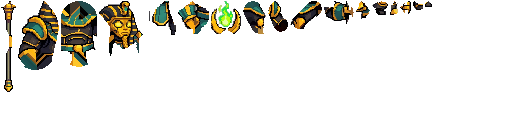
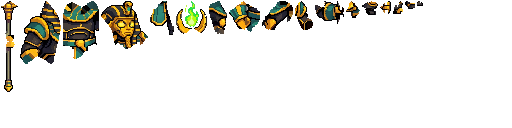
[feat/bone-studio] Tự cắt part: hết viền xám, hết mảng vẽ bù lộ, hết mẩu rời khi xoay
- Vẽ bù phía sau chỉ lan một dải hẹp quanh mép part (dưới part con thì tối đa gấp đôi), không còn mảng tối nhọn sau vai hay khối nâu ở đầu gậy khi part trước xoay.
- Bỏ viền xám pha nền ở mép (điểm pha giữa nền và màu bên trong), cả trên ảnh gốc lẫn lưới gốc: từ 54 còn 3 điểm xám ở mép pharaoh.
- Mẩu nhỏ bị gán nhầm part (sát part khác) được trả về part nó chạm; mảng thật bị che (gậy sau bàn tay) và sợi lửa rời vẫn giữ.
- Dựng lại pharaoh mẫu và file demo runtime.
- Test: test-core 15/15, test-editor 11/11.

Changed region(s): [[0.0, 0.0, 0.8438, 0.5625], [0.0, 0.0, 0.0312, 0.0625]]

diff --git a/bone-studio/src/split/rig.js b/bone-studio/src/split/rig.js
@@ -1,7 +1,7 @@
 // From a native-grid image and a skeleton spec to rig parts: labels, hidden-pixel fill, cropped part images, commands.
 // Skeleton spec (coordinates in SOURCE image pixels, y down):
 //   { joints: { name: [x, y] }, parts: [{ name, from, to, parent? }] }   parts listed bottom → top (draw order)
-import { img } from "./pixels.js?v=20261125c";
+import { img } from "./pixels.js?v=20261125d";
 
 // ---- masks -------------------------------------------------------------------------------------
 export function alphaMask(im) {
@@ -250,6 +250,27 @@ export function segment(native, spec, scale = 1, phase = [0, 0]) {
     }
     labels.set(next);
   }
+  // islands: small stray pieces of a part that sit against another part go to the part they touch most
+  for (let k = 0; k < n; k++) {
+    const m = new Uint8Array(w * h);
+    for (let i = 0; i < w * h; i++) m[i] = labels[i] === k ? 1 : 0;
+    const { comps } = components(m, w, h);
+    if (comps.length < 2) continue;
+    comps.sort((a, b) => b.length - a.length);
+    const total = comps.reduce((t, c) => t + c.length, 0);
+    for (const c of comps.slice(1)) {
+      if (c.length > 40 || c.length > total * 0.12) continue; // a real piece (e.g. a staff split by the hand holding it)
+      const touch = new Map(), inC = new Set(c);
+      for (const i of c) {
+        const x = i % w, y = (i / w) | 0;
+        for (const j of [x > 0 ? i - 1 : -1, x < w - 1 ? i + 1 : -1, y > 0 ? i - w : -1, y < h - 1 ? i + w : -1]) if (j >= 0 && !inC.has(j) && labels[j] >= 0 && labels[j] !== k) touch.set(labels[j], (touch.get(labels[j]) ?? 0) + 1);
+      }
+      let to = -1, best = -1;
+      for (const [l, v] of touch) if (v > best) { best = v; to = l; }
+      if (to < 0) continue; // a detached bit of the same thing (a flame wisp): keep it
+      for (const i of c) labels[i] = to;
+    }
+  }
   return { labels, segs, w, h };
 }
 
@@ -257,9 +278,15 @@ export function segment(native, spec, scale = 1, phase = [0, 0]) {
 // A part is extended under the parts drawn in front of it, inside its own capsule, and the new pixels take the
 // most common colour of already-filled neighbours (stays on the pixel grid, no blur). The setup pose is unchanged
 // because every added pixel sits under a part that is drawn on top.
-export function cutParts(native, seg, spec, { fill = true, grow = 1.15 } = {}) {
+export function cutParts(native, seg, spec, { fill = true, grow = 1.15, band = 3 } = {}) {
   const { labels, segs, w, h } = seg, n = segs.length, d = native.data;
   const out = [];
+  // descendants of each part: a parent may extend under its children inside its capsule; other parts only get a thin band
+  const kids = spec.parts.map((p) => {
+    const set = new Set(), stack = [p.name];
+    while (stack.length) { const c = stack.pop(); spec.parts.forEach((q, j) => { if (q.parent === c && !set.has(j)) { set.add(j); stack.push(q.name); } }); }
+    return set;
+  });
   for (let k = 0; k < n; k++) {
     const own = new Uint8Array(w * h);
     for (let i = 0; i < own.length; i++) own[i] = labels[i] === k ? 1 : 0;
@@ -269,10 +296,11 @@ export function cutParts(native, seg, spec, { fill = true, grow = 1.15 } = {}) {
     let added = 0;
     if (fill) {
       const target = new Uint8Array(w * h);
+      const ownDist = distanceTransform(own.map((v) => 1 - v), w, h);
       for (let i = 0; i < w * h; i++) {
         if (own[i] || labels[i] <= k) continue; // only under parts drawn later (on top)
         const p = [i % w, (i / w) | 0];
-        if (segDist(p, segs[k].a, segs[k].b) <= segs[k].r * grow) target[i] = 1;
+        if (kids[k].has(labels[i]) ? segDist(p, segs[k].a, segs[k].b) <= segs[k].r * grow && ownDist[i] <= band * 2 : ownDist[i] <= band) target[i] = 1;
       }
       for (let pass = 0; pass < 200; pass++) {
         const batch = [];

diff --git a/bone-studio/src/split/pixels.js b/bone-studio/src/split/pixels.js
@@ -28,6 +28,19 @@ export function removeBackground(src, { tolerance } = {}) {
       if (j >= 0 && !seen[j] && dist2(d, j * 4, bg) <= tol2) { seen[j] = 1; stack.push(j); }
     }
   }
+  // defringe: edge pixels that are still close to the background (blended halo of an upscaled image) go transparent
+  const fringe2 = Math.max(tol2 * 4, 95 * 95);
+  for (let pass = 0; pass < 2; pass++) {
+    const kill = [];
+    for (let i = 0; i < w * h; i++) {
+      if (out.data[i * 4 + 3] === 0) continue;
+      const x = i % w, y = (i / w) | 0;
+      const edge = (x > 0 && out.data[(i - 1) * 4 + 3] === 0) || (x < w - 1 && out.data[(i + 1) * 4 + 3] === 0) || (y > 0 && out.data[(i - w) * 4 + 3] === 0) || (y < h - 1 && out.data[(i + w) * 4 + 3] === 0);
+      if (edge && dist2(d, i * 4, bg) <= fringe2) kill.push(i);
+    }
+    for (const i of kill) out.data[i * 4 + 3] = 0;
+    removed += kill.length;
+  }
   return { image: out, background: bg, removed };
 }
 
@@ -124,4 +137,34 @@ export function opaqueBounds(src) {
     if (x < x0) x0 = x; if (x > x1) x1 = x; if (y < y0) y0 = y; if (y > y1) y1 = y;
   }
   return x1 < 0 ? null : { x: x0, y: y0, w: x1 - x0 + 1, h: y1 - y0 + 1 };
+}
+
+// edge pixels of an already-cut image that are close to the removed background colour go transparent
+export function defringe(im, bg, maxDist = 95, passes = 2) {
+  if (!bg) return 0;
+  const { width: w, height: h, data: d } = im;
+  let n = 0;
+  for (let pass = 0; pass < passes; pass++) {
+    const kill = [];
+    for (let i = 0; i < w * h; i++) {
+      if (!d[i * 4 + 3]) continue;
+      const x = i % w, y = (i / w) | 0;
+      const edge = x === 0 || y === 0 || x === w - 1 || y === h - 1 || !d[(i - 1) * 4 + 3] || !d[(i + 1) * 4 + 3] || !d[(i - w) * 4 + 3] || !d[(i + w) * 4 + 3];
+      if (!edge) continue;
+      if (dist2(d, i * 4, bg) <= maxDist * maxDist) { kill.push(i); continue; }
+      // a blend of the background and an inner neighbour: p ≈ bg + t (q - bg) with 0 < t < 0.8
+      for (const j of [i - 1, i + 1, i - w, i + w]) {
+        if (j < 0 || j >= w * h || !d[j * 4 + 3]) continue;
+        const q = [d[j * 4] - bg[0], d[j * 4 + 1] - bg[1], d[j * 4 + 2] - bg[2]], p = [d[i * 4] - bg[0], d[i * 4 + 1] - bg[1], d[i * 4 + 2] - bg[2]];
+        const qq = q[0] * q[0] + q[1] * q[1] + q[2] * q[2];
+        if (qq < 60 * 60) continue;
+        const t = (p[0] * q[0] + p[1] * q[1] + p[2] * q[2]) / qq;
+        const res = Math.hypot(p[0] - t * q[0], p[1] - t * q[1], p[2] - t * q[2]);
+        if (t > 0.05 && t < 0.8 && res < 18) { kill.push(i); break; }
+      }
+    }
+    for (const i of kill) d[i * 4 + 3] = 0;
+    n += kill.length;
+  }
+  return n;
 }

diff --git a/bone-studio/src/editor/app.js b/bone-studio/src/editor/app.js
@@ -3,14 +3,14 @@ window.__errors = [];
 window.addEventListener("error", (e) => window.__errors.push(String(e.message || e)));
 window.addEventListener("unhandledrejection", (e) => window.__errors.push(String(e.reason?.message || e.reason)));
 
-const { S, doc, emit, on, h, toast, run, select, selectedBones, keyOverrides, keyAll, setTime, skeleton, poseAtTime } = await import("./state.js?v=20261125c");
-const VP = await import("./viewport.js?v=20261125c");
-const { renderTree, renderProps } = await import("./panels.js?v=20261125c");
-const TL = await import("./timeline.js?v=20261125c");
-const IO = await import("./io.js?v=20261125c");
-const AG = await import("./agent.js?v=20261125c");
-const { importWhole } = await import("./splitui.js?v=20261125c");
-const CL = await import("./cloud.js?v=20261125c");
+const { S, doc, emit, on, h, toast, run, select, selectedBones, keyOverrides, keyAll, setTime, skeleton, poseAtTime } = await import("./state.js?v=20261125d");
+const VP = await import("./viewport.js?v=20261125d");
+const { renderTree, renderProps } = await import("./panels.js?v=20261125d");
+const TL = await import("./timeline.js?v=20261125d");
+const IO = await import("./io.js?v=20261125d");
+const AG = await import("./agent.js?v=20261125d");
+const { importWhole } = await import("./splitui.js?v=20261125d");
+const CL = await import("./cloud.js?v=20261125d");
 
 const $ = (id) => document.getElementById(id);
 const app = $("app"), modal = $("xx-modal");
@@ -122,9 +122,9 @@ async function openDialog() {
 }
 async function openSample(name) {
   const base = name === "pharaoh" ? "samples/pharaoh/project" : "samples/robo";
-  const d = await (await fetch(`${base}/doc.json?v=20261125c`)).json();
+  const d = await (await fetch(`${base}/doc.json?v=20261125d`)).json();
   const images = {};
-  await Promise.all(Object.keys(d.images).map(async (p) => { images[p] = await (await fetch(`${base}/images/${p}.png?v=20261125c`)).blob(); }));
+  await Promise.all(Object.keys(d.images).map(async (p) => { images[p] = await (await fetch(`${base}/images/${p}.png?v=20261125d`)).blob(); }));
   await IO.loadProject(d, images);
   toast(`Đã mở mẫu ${d.name}`);
 }

diff --git a/bone-studio/runtime/xuong-three.js b/bone-studio/runtime/xuong-three.js
@@ -1,12 +1,12 @@
 // three.js adapter for Xưởng Xương skeletons (three r160+, ESM).
 //   import * as THREE from "https://cdn.jsdelivr.net/npm/three@0.160.0/build/three.module.js";
-//   import { loadSkeleton } from "./xuong-player.js";
-//   import { XuongMesh } from "./xuong-three.js";
+//   import { loadSkeleton } from "./xuong-player.js?v=20261125d";
+//   import { XuongMesh } from "./xuong-three.js?v=20261125d";
 //   const m = new XuongMesh(THREE, await loadSkeleton("pharaoh.xuong.json"), { pixelsPerUnit: 100 });
 //   m.play("walk"); scene.add(m); mỗi khung: m.update(dt);
 // Một BufferGeometry cho mỗi (trang atlas, additive hay không); vị trí/uv/màu dựng lại mỗi khung từ drawList.
 // Thứ tự vẽ giữ nguyên trong từng geometry (thứ tự tam giác); giữa các geometry dùng renderOrder theo slot đầu tiên.
-import { buildSkeleton, setupPose, updateWorld, drawList, AnimationState, bounds as listBounds } from "./xuong.js?v=20261125c";
+import { buildSkeleton, setupPose, updateWorld, drawList, AnimationState, bounds as listBounds } from "./xuong.js?v=20261125d";
 
 // XuongMesh là Object3D của THREE được truyền vào: `new XuongMesh(THREE, data, opts)` trả về một lớp con của THREE.Object3D
 // (dựng một lần cho mỗi bản THREE). Lớp này chỉ mang các phương thức bên dưới.

diff --git a/bone-studio/src/editor/io.js b/bone-studio/src/editor/io.js
@@ -1,12 +1,12 @@
 // Saving, loading, importing and exporting in the browser.
-import { S, doc, emit, h, toast, run, skeleton } from "./state.js?v=20261125c";
-import { emptyDoc } from "../commands.js?v=20261125c";
-import { exportBundle, usedImages } from "../export.js?v=20261125c";
-import { fromSpine } from "../spine-io.js?v=20261125c";
-import { zip, unzip } from "../zip.js?v=20261125c";
-import { encodeGIF } from "../gif.js?v=20261125c";
-import { readPSD } from "../psd.js?v=20261125c";
-import { parseAtlas, poseAt, drawList, draw2d, bounds, animationDuration, buildSkeleton } from "../../runtime/xuong.js?v=20261125c";
+import { S, doc, emit, h, toast, run, skeleton } from "./state.js?v=20261125d";
+import { emptyDoc } from "../commands.js?v=20261125d";
+import { exportBundle, usedImages } from "../export.js?v=20261125d";
+import { fromSpine } from "../spine-io.js?v=20261125d";
+import { zip, unzip } from "../zip.js?v=20261125d";
+import { encodeGIF } from "../gif.js?v=20261125d";
+import { readPSD } from "../psd.js?v=20261125d";
+import { parseAtlas, poseAt, drawList, draw2d, bounds, animationDuration, buildSkeleton } from "../../runtime/xuong.js?v=20261125d";
 
 // ---- images ------------------------------------------------------------------------------------
 export async function blobToCanvas(blob) {

diff --git a/bone-studio/src/editor/splitui.js b/bone-studio/src/editor/splitui.js
@@ -1,11 +1,11 @@
 // "Cắt part": one whole-character image → rig parts. Heuristic proposal offline, joints editable, then accepted live.
-import { S, doc, emit, h, toast } from "./state.js?v=20261125c";
-import { analyze } from "../split/index.js?v=20261125c";
-import { heuristicSkeleton, segment, cutParts, rigCommands } from "../split/rig.js?v=20261125c";
-import { opaqueBounds } from "../split/pixels.js?v=20261125c";
-import { blobToCanvas, canvasToRgba, rgbaToCanvas, canvasToBlob, setImage } from "./io.js?v=20261125c";
-import { send } from "./agent.js?v=20261125c";
-import { signedIn } from "./api.js?v=20261125c";
+import { S, doc, emit, h, toast } from "./state.js?v=20261125d";
+import { analyze } from "../split/index.js?v=20261125d";
+import { heuristicSkeleton, segment, cutParts, rigCommands } from "../split/rig.js?v=20261125d";
+import { opaqueBounds } from "../split/pixels.js?v=20261125d";
+import { blobToCanvas, canvasToRgba, rgbaToCanvas, canvasToBlob, setImage } from "./io.js?v=20261125d";
+import { send } from "./agent.js?v=20261125d";
+import { signedIn } from "./api.js?v=20261125d";
 
 const PAL = ["#e65050", "#50c878", "#5a8cf0", "#f0c83c", "#c85adc", "#3cd2dc", "#fa8c3c", "#9696ff", "#a0e65a", "#ff78b4", "#c8a064", "#dcdcdc", "#5a5ac8", "#28a05a", "#ff5a5a", "#78b4ff", "#ffd278"];
 

diff --git a/bone-studio/index.html b/bone-studio/index.html
@@ -7,10 +7,10 @@
   <title>Xưởng Xương</title>
   <meta name="description" content="Editor animation 2D bằng bone trên trình duyệt: dựng rig, key animation, xuất cho game. Có agent sửa trực tiếp." />
   <link rel="icon" href="../assets/favicon.svg" type="image/svg+xml" />
-  <link rel="stylesheet" href="editor.css?v=20261125c" />
-  <script src="../js/session.js?v=20261125c"></script>
-  <script src="../js/supabase-config.js?v=20261125c"></script>
-  <script src="../js/supabase-auth.js?v=20261125c"></script>
+  <link rel="stylesheet" href="editor.css?v=20261125d" />
+  <script src="../js/session.js?v=20261125d"></script>
+  <script src="../js/supabase-config.js?v=20261125d"></script>
+  <script src="../js/supabase-auth.js?v=20261125d"></script>
 </head>
 <body>
   <div id="app" class="xx">
@@ -61,6 +61,6 @@
   </div>
   <div id="xx-modal" class="xx-modal" hidden></div>
   <div id="xx-toasts" class="xx-toasts" role="status"></div>
-  <script type="module" src="src/editor/app.js?v=20261125c"></script>
+  <script type="module" src="src/editor/app.js?v=20261125d"></script>
 </body>
 </html>

diff --git a/bone-studio/src/split/index.js b/bone-studio/src/split/index.js
@@ -1,12 +1,13 @@
 // One-call pipeline: whole character image → rig parts + commands. Same code in the browser and in bone-cli.
-import { removeBackground, detectScale, toNative, opaqueBounds } from "./pixels.js?v=20261125c";
-import { heuristicSkeleton, segment, cutParts, rigCommands } from "./rig.js?v=20261125c";
+import { removeBackground, detectScale, toNative, opaqueBounds, defringe } from "./pixels.js?v=20261125d";
+import { heuristicSkeleton, segment, cutParts, rigCommands } from "./rig.js?v=20261125d";
 
 export function analyze(src) {
   const bg = removeBackground(src);
   const sc = detectScale(src);
   const pixel = sc.pixelArt ? sc : { scale: 1, phaseX: 0, phaseY: 0, pixelArt: false };
   const native = pixel.scale > 1 ? toNative(bg.image, pixel) : bg.image;
+  if (pixel.scale > 1) defringe(native, bg.background);
   return { alpha: bg.image, background: bg.background, scale: pixel.scale, phase: [pixel.phaseX, pixel.phaseY], pixelArt: pixel.pixelArt, native, detected: sc };
 }
 

diff --git a/bone-studio/src/editor/viewport.js b/bone-studio/src/editor/viewport.js
@@ -1,7 +1,7 @@
 // Viewport: draws the skeleton with canvas2D, handles picking, gizmos, bone creation, pan and zoom.
-import { S, doc, emit, skeleton, poseAtTime, editBone, currentLocal, select, selectedBones, toast, run, duration } from "./state.js?v=20261125c";
-import { drawList, draw2d, worldToLocal, worldToParent, worldVertices, getAttachment, bounds, DEG, findKey } from "../../runtime/xuong.js?v=20261125c";
-import { deformOffsets } from "../mesh.js?v=20261125c";
+import { S, doc, emit, skeleton, poseAtTime, editBone, currentLocal, select, selectedBones, toast, run, duration } from "./state.js?v=20261125d";
+import { drawList, draw2d, worldToLocal, worldToParent, worldVertices, getAttachment, bounds, DEG, findKey } from "../../runtime/xuong.js?v=20261125d";
+import { deformOffsets } from "../mesh.js?v=20261125d";
 
 const cv = document.getElementById("xx-canvas");
 const ctx = cv.getContext("2d");

diff --git a/bone-studio/src/commands.js b/bone-studio/src/commands.js
@@ -1,8 +1,8 @@
 // Command registry. Every change to a document, from the UI, the agent, the CLI or a test, is one of these.
 // apply(doc, cmd) is pure: it returns a new doc and the exact inverse (a $patch command).
-import { transaction, applyPatch } from "./tx.js?v=20261125c";
-import { gridMesh, autoWeights, unweight, movedVertices } from "./mesh.js?v=20261125c";
-import { BONE_DEFAULTS, INHERIT, BLENDS, buildSkeleton, setupPose, updateWorld, DEG } from "../runtime/xuong.js?v=20261125c";
+import { transaction, applyPatch } from "./tx.js?v=20261125d";
+import { gridMesh, autoWeights, unweight, movedVertices } from "./mesh.js?v=20261125d";
+import { BONE_DEFAULTS, INHERIT, BLENDS, buildSkeleton, setupPose, updateWorld, DEG } from "../runtime/xuong.js?v=20261125d";
 
 export const FORMAT = "xuong";
 export const VERSION = 1;

diff --git a/bone-studio/src/editor/panels.js b/bone-studio/src/editor/panels.js
@@ -1,6 +1,6 @@
 // Tree and properties panels.
-import { S, doc, emit, on, h, select, run, toast, currentLocal, editBone, keyState, PROP_FIELDS, selectedBones, skeleton } from "./state.js?v=20261125c";
-import { getAttachment, parseColor, colorHex, INHERIT, BLENDS, animationDuration } from "../../runtime/xuong.js?v=20261125c";
+import { S, doc, emit, on, h, select, run, toast, currentLocal, editBone, keyState, PROP_FIELDS, selectedBones, skeleton } from "./state.js?v=20261125d";
+import { getAttachment, parseColor, colorHex, INHERIT, BLENDS, animationDuration } from "../../runtime/xuong.js?v=20261125d";
 
 const treeEl = document.getElementById("xx-tree"), propsEl = document.getElementById("xx-props"), findEl = document.getElementById("xx-find");
 const collapsed = new Set();

diff --git a/bone-studio/src/editor/state.js b/bone-studio/src/editor/state.js
@@ -1,7 +1,7 @@
 // Editor state shared by all panels. The document lives in S.hist (History); everything else is view state.
-import { History } from "../history.js?v=20261125c";
-import { emptyDoc } from "../commands.js?v=20261125c";
-import { buildSkeleton, setupPose, applyAnimation, updateWorld, animationDuration, findKey } from "../../runtime/xuong.js?v=20261125c";
+import { History } from "../history.js?v=20261125d";
+import { emptyDoc } from "../commands.js?v=20261125d";
+import { buildSkeleton, setupPose, applyAnimation, updateWorld, animationDuration, findKey } from "../../runtime/xuong.js?v=20261125d";
 
 export const S = {
   hist: new History(emptyDoc()),
